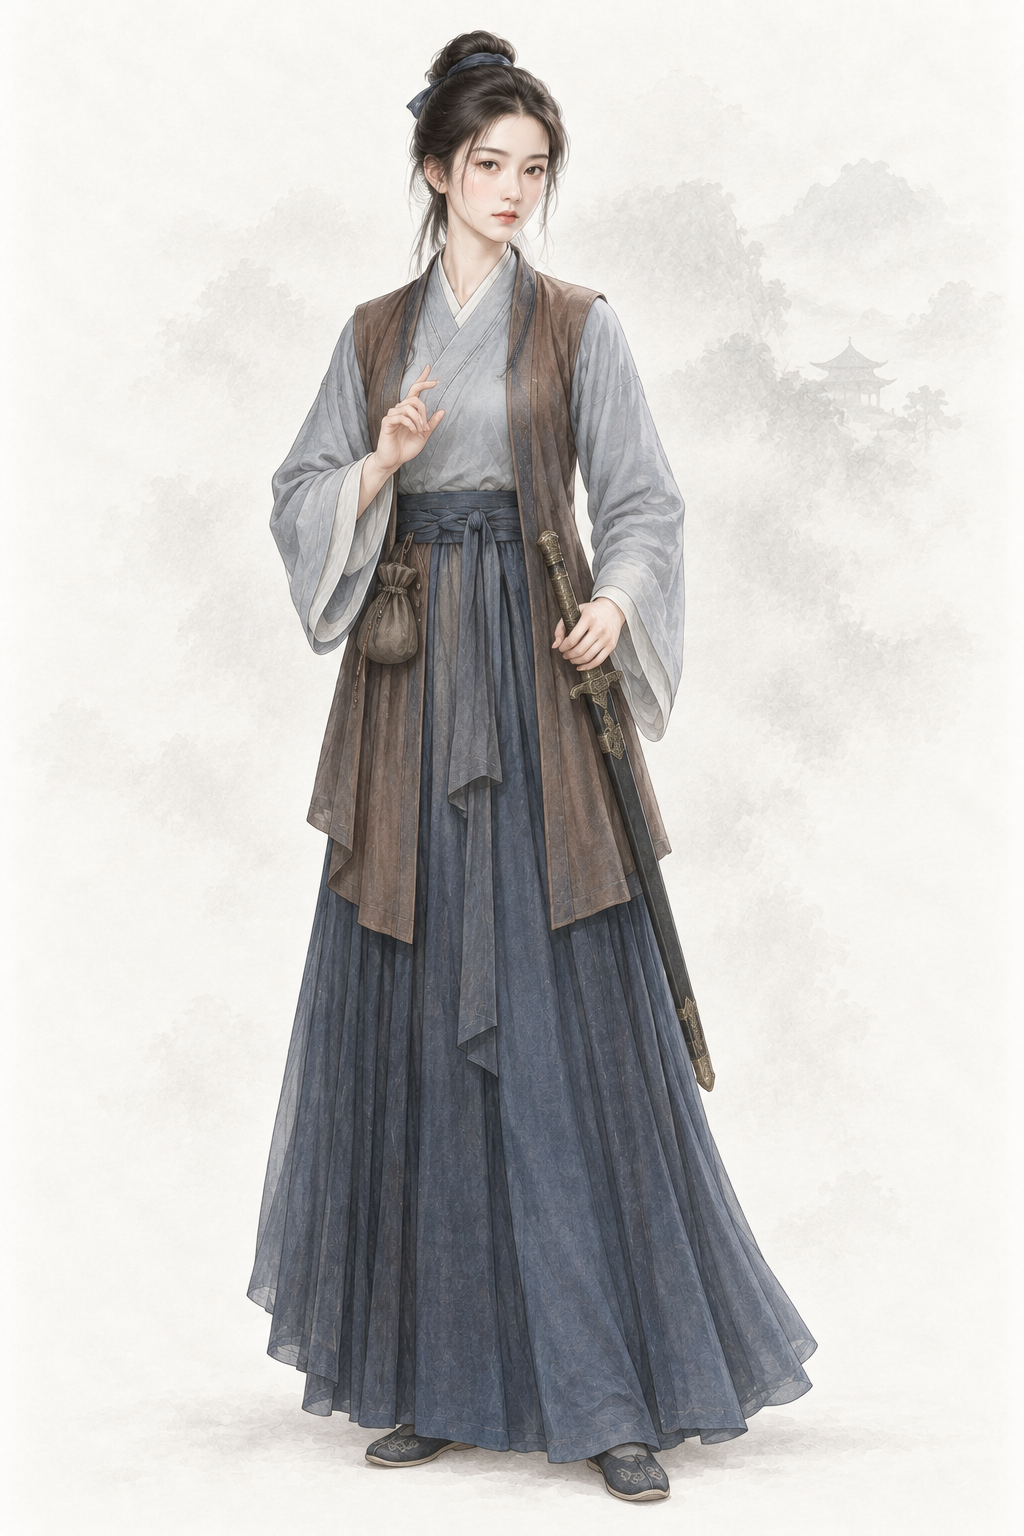
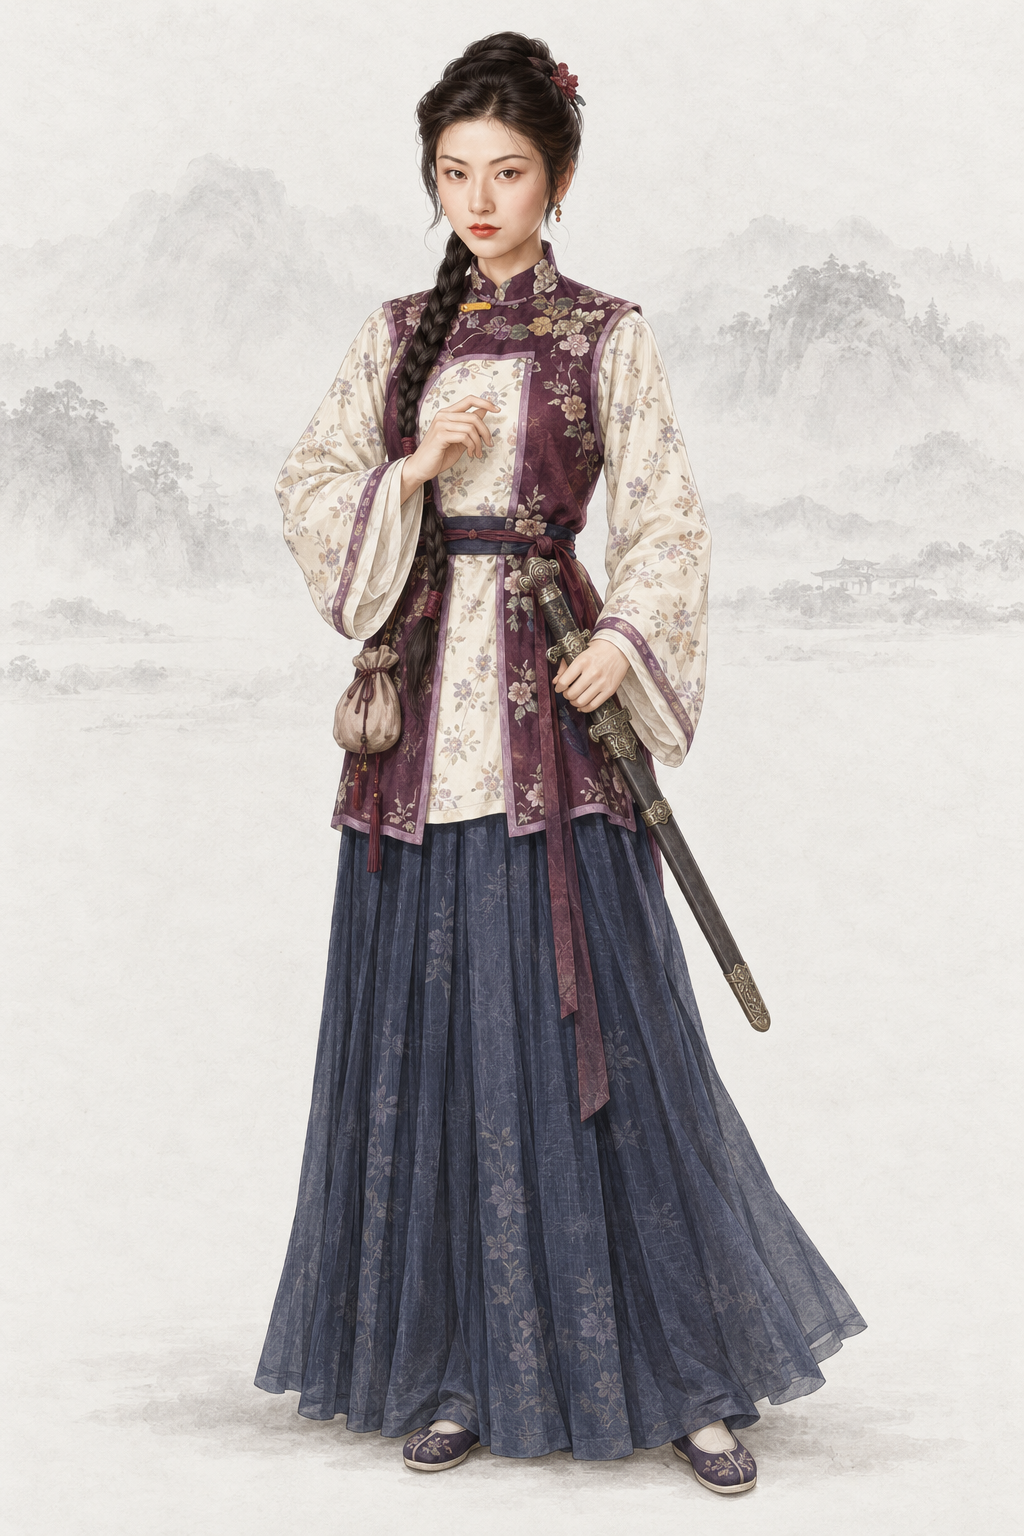
assets(character): por_npc_fangyi__ch08_youth_base 方怡（codex · AR-32 经典剧照重出）
1998 年 TVB《鹿鼎记》剧照 1 张 + 基线；提示词写回「## Gemini 提示词」，上一版留作历史，frontmatter 加 classic_ref。

diff --git a/assets/default/prompts/characters/ch08-luding/npc_fangyi.md b/assets/default/prompts/characters/ch08-luding/npc_fangyi.md
@@ -17,15 +17,42 @@ references:
   use: 第三参考仅背景：暖浅灰纸底、极浅低对比水墨远山、薄雾和留白，已实际view。完全忽略王语嫣面容、年龄、体型、发髻、倾头转身、白青衣装和饰物；墨迹纸纹不得侵入方怡的皮肤、衣料和器物。
 status: redo
 redo_reason: "旧图以 1998 年剧集剧照为面部身份参考生成，有复刻真人面容的风险（本轮口径禁止）（照片感明显）；造型与年龄本身可用，保留灰蓝袄、褐比甲、佩剑与药囊，只把脸换成文字设计的独立面容。"
-reference_upload:
-- assets/default/baseline/character/female/ref_npc_wangyuyan__ch01_base01.png
 realism_revision: user_identity_pose_20261001
 codex_prompt_rev: 2026-10-02
+classic_ref:
+  version: "1998 年 TVB《鹿鼎记》"
+  stills:
+  - ".agents/coord/imagegen-reference/identity-20261001/luding/fangyi_1998_xuhaoying_comparison.jpg"
+  note: "剧照缩到长边 1024 的 JPEG 上传，放在两张同性别基线之前（AR-32）；fangyi_1998_xuhaoying_comparison.jpg 裁切框 (0.0, 0.2, 0.46, 1.0)"
+reference_upload:
+- .agents/coord/imagegen-reference/identity-20261001/luding/fangyi_1998_xuhaoying_comparison.jpg
+- assets/default/baseline/character/female/ref_npc_wangyuyan__ch01_base01.png
+- assets/default/baseline/character/female/ref_npc_xiaolongnv__ch03_base01.png
 ---
 
 # 方怡 · 人物写实修正
 
 ## Gemini 提示词
+
+> 2026-10-02 AR-32 经典剧照重出（6 号出图员，codex exec · image_gen 出图）：上传该角色经典影视版剧照 1 张（1998 年 TVB《鹿鼎记》：fangyi_1998_xuhaoying_comparison.jpg）在前、两张同性别基线在后。剧照只借鉴发型、服饰、配色、标志道具、气质与面部特征，重新绘制成项目画风，不照搬照片的构图、光影和姿势；人物一律成年。提示词里不写演员名。上一版提示词保留在下一节作历史。
+
+```text
+生成一张 2:3 竖幅全身人物立绘：单人、单一视角、完整全身——头顶、双手、双脚和手中器物的两端都在画面内，四周留出自然空白；人物站姿自然，身体基本朝向正面，头部端正（不歪头、不仰不俯），镜头平视。
+【参考图】随提示词上传 3 张参考图。第 1 张参考图是该角色经典影视造型的剧照：借鉴其发型、服饰、配色、标志道具、气质和面部特征，让人一眼认出是这个角色；但必须重新绘制成项目画风，不要照片质感，不要照搬剧照的构图、光影、背景和姿势，也不要做成照片修图。剧照与下文文字不一致的地方（年龄、所处阶段、帽饰与衣装细节、手中器物），以下文文字为准；画中人一律是成年人。最后两张是本项目画风基线：画风、用色、光线、质感和暖浅灰纸底加淡水墨背景以它们为准。
+【画风】写实手绘古风人物插画，与本项目写实武侠角色立绘同一画风，像功力深厚的画师用细腻笔触画出的真实美人。手绘插画质感，不是 CG 渲染：不要过度光滑的皮肤、完美对称的五官、塑料高光、过度锐利的发丝；保留自然的笔触和细微不完美。肌肤细腻自然，看得见极细的肤理和自然的左右不对称，不磨皮、不油亮、不打粉；头发是一缕缕自然的发丝和少量碎发；布料看得出经纬纹理、厚薄和自然垂坠的褶皱，干净完整；整体设色低饱和、雅致；柔和的自然光从左上方照来，明暗过渡自然，不打舞台光、轮廓光或美颜柔光。不是照片，不是三维渲染，不是动漫或游戏 CG，也不是油画（没有厚涂笔触和画布纹理）。
+【背景】不透明的暖浅灰色纸底，只在远处有极淡的水墨远山和薄雾，大面积留白；人物与背景明暗分明、轮廓边缘干净完整（后续要自动抠图），水墨和纸纹只在背景里，不侵入人物和衣服；脚下只有很淡的一点接触阴影。
+【人物】方怡，《鹿鼎记》中沐王府的女弟子，宫中行刺后已能行动、尚未受神龙教控制的时期。
+【年龄与体态】约二十二岁的成年女子，身材修长匀称，有习武者的利落。
+【经典造型】要一眼认出是方怡——米白碎花袄、暗紫红绣花比甲、胸前一条长辫、佩剑与小药囊，冷静警觉、心思深沉；俏丽好看的成年女子。
+【面容】脸以剧照为底子——保留剧照里这个角色的脸型、眉眼、鼻唇的比例关系和神气，画成成年人；修长的瓜子脸，颧骨略显，下颌两侧清楚地收向小而不尖的下巴；眉毛细长而平、眉尾微挑；眼睛细长，眼神冷静警觉，带几分心事与算计；鼻梁挺直、鼻尖自然；嘴唇偏小、唇峰清楚，嘴角收敛；肤色白净，有真实纹理。看起来聪明、谨慎、心里藏着事。
+【发式】黑发紧紧盘成实用的发髻，用深色布带固定，鬓边簪一朵暗红色小绒花，一条长辫从肩后垂到胸前。
+【服饰】米白底浅色碎花的交领长袄（右衽）、外罩一件暗紫红色绣花比甲（领口与前襟绣浅色花枝）、深蓝长裙、平底窄口布鞋。
+【道具与姿态】左腰佩一柄连鞘长剑，左手轻扶剑鞘；右腰用短带系一只小素布药囊；右手在胸前低处半抬，像在低声提醒；正面站立。
+【不要】画面里不要任何文字、题款、印章、签名、水印、台标、边框、分格或多视图；不要第二个人；不要幼态（童颜、娃娃脸、婴儿肥、儿童或少年身材、大头小身）；不要塑料感皮肤、磨皮美颜、网红脸（尖下巴大眼高鼻的模板脸）、过度对称、浓妆、偶像式打光、蜡像感；不要照片质感、三维渲染或动漫大眼；不要歪头、斜镜头；不要多指、缺指（设定的伤残除外）、手与器物粘连或悬空；汉式交领必须右衽（穿着者的左襟压在右襟上），不要左衽（设定为少数民族服制的除外），不要水平镜像；不要现代物品、日式服饰或日本刀、发光特效、法阵或能量光。不要照片或照片修图的质感，不要照搬剧照的构图、光影、背景和姿势，不要剧照里的字幕、台标和水印。不要照片感；不要和沐剑屏、苏荃同一张脸。清初汉族女子仍穿明式袄裙：汉式交领一律右衽（穿着者左襟压右襟），不要左衽、不要水平镜像。
+【画风基线】随提示词上传的参考图里，最后两张是本项目的立绘画风基线：只参考它们的画风、用色、光线、质感和暖浅灰纸底加淡水墨的背景处理，整体画风必须与它们一致——精细写实的数字手绘插画，不是油画，不要厚涂笔触和画布纹理。基线图只取画风，不取长相：不要照搬基线图里人物的长相、年龄、发型、服饰和姿势。
+```
+
+## 上一版 Gemini 提示词（2026-10-02 文字版；AR-32 经典剧照重出前，历史，不再用于出图）
 
 > 2026-10-02 Codex 人物线 2 号（AR-31）：在审核组稿上补一行「经典形象」（借鉴公认经典造型的发式、装束、配色、标志道具与气质，只写文字，不写演员名、不上传剧照），并补去 AI 化要求。本轮出图用下面第一个代码块；审核组原稿保留在其后的「审核组原稿」小节作历史。
 
